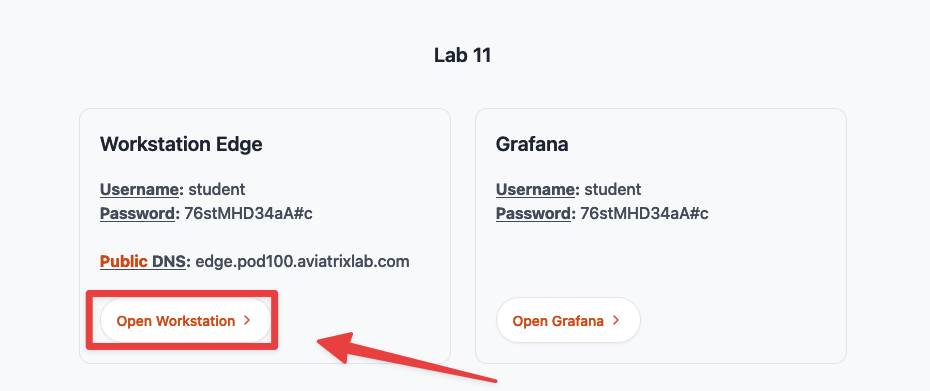
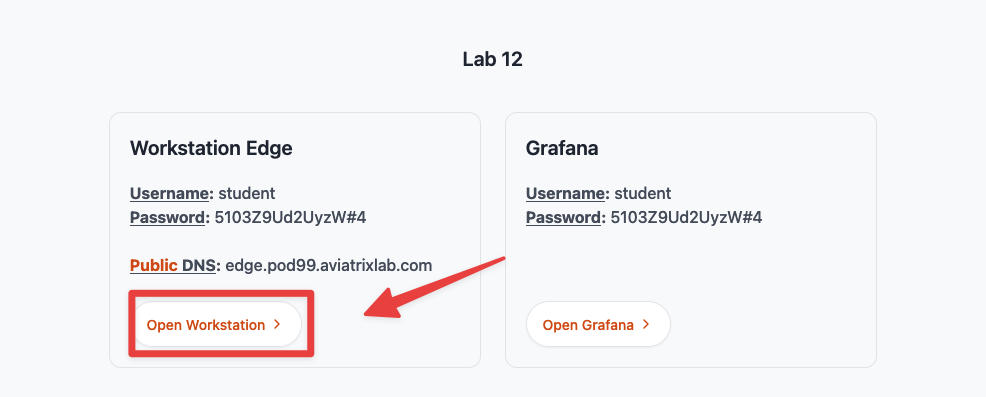
update for pro

diff --git a/ace_pro/docs/lab12.md b/ace_pro/docs/lab12.md
@@ -17,7 +17,7 @@ Go to your personal POD Portal, identify the **_Lab11_** section and click on th
 ---
 align: center
 ---
-Lab 11 section on the POD Portal
+Lab 12 section on the POD Portal
 ```
 
 Insert the corresponding credentials, available on the POD Portal, to log in to the remote "Workstation Edge".
@@ -29,7 +29,7 @@ align: center
 Edge Workstation credentials
 ```
 
-* Open the **Visual Studio Code** located on the Desktop and thn click on the `Explorer` button.
+* Open V**Visual Studio Code** located on the desktop, then click on the `Explorer` button.
 
 ```{figure} images/lab11-edge3.png
 ---
@@ -39,16 +39,16 @@ align: center
 VS Studio
 ```
 
+* Click on the **Open Folder** button, select the folder `terraform-lab` and click **Open**
+  * _When prompted to trust the authors of the files in this folder, select **Yes, I trust the authors**_
+
 ```{figure} images/lab11-edge32.png
 ---
 height: 400px
 align: center
 ---
-VS Studio
+Open Folder
 ```
-
-* Click on the **Open Folder** button, select the folder `terraform-lab` and click **Open**
-  * _When prompted to trust the authors of the files in this folder, select **Yes, I trust the authors**_
 
 ```{figure} images/lab11-edge4.png
 ---
@@ -257,7 +257,7 @@ Full-Blown Aviatrix Solution
 * Infrastructure as Code and Terraform are a perfect complement to the Aviatrix solution
 * In minutes, you can create the network, security and connectivity needed
 
-## 5. - Network Insights API
+## 5. Network Insights API
 
 ### 5.1 Description
 
